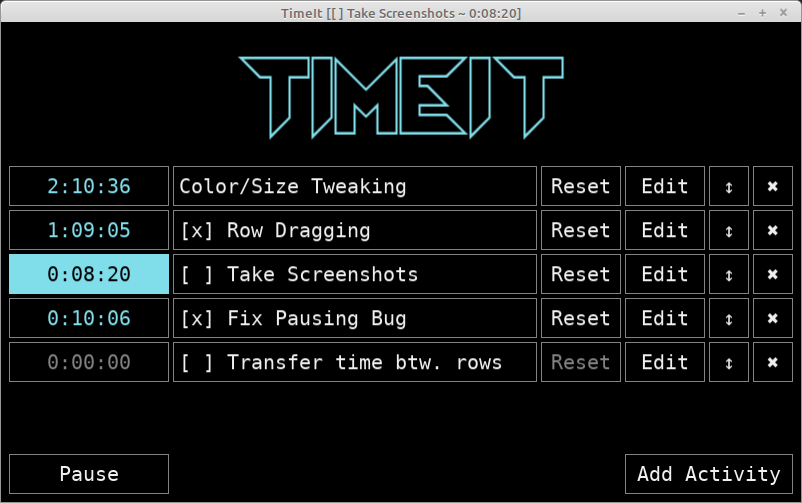
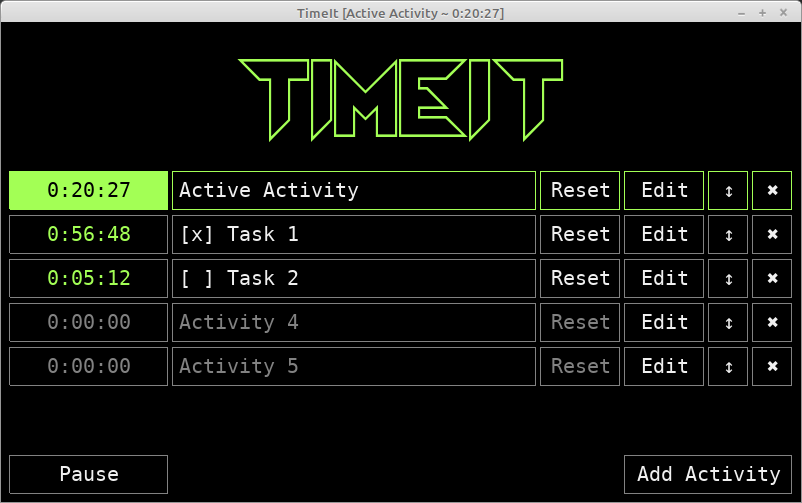
removed kivyMD dependency

diff --git a/kivy_timetracker.py b/kivy_timetracker.py
@@ -14,13 +14,13 @@ from kivy.uix.button import Button
 from kivy.uix.togglebutton import ToggleButton
 from kivy.properties import ColorProperty
 
-from kivymd.uix.behaviors import HoverBehavior  # TODO can we eliminate this dependency
-
 from kivy.clock import Clock
 from kivy.config import Config
 from kivy.core.window import Window
 from kivy.core.text import LabelBase
-from kivy.resources import resource_add_path, resource_find
+from kivy.resources import resource_add_path
+
+from hoverable import HoverBehavior
 
 import os
 import sys
@@ -84,6 +84,14 @@ BG_COLOR = tuple(x/255. for x in (0, 0, 0))
 DISABLED_FG_COLOR = tuple(x/255. for x in (130, 130, 130))
 ACCENT_COLOR = tuple(x/255. for x in (245, 245, 66))
 CANCEL_COLOR = (1, 0, 0)
+
+
+# 0=Red, 30=Orange, 60=Yellow, 90=Yellow-Green, 120=Green
+# 150=Sea Foam, 180=Cyan, 210=Light Blue, 240=Dark Blue,
+# 270=Purple, 300=Magenta, 330=Pink, 360=Red
+RAINBOW_HUE_OFFSET = 0  # color at 12am
+
+RAINBOW_PERIOD_HOURS = 12  # 12 hour cycle
 
 TITLE_FONT_SIZE = 64
 REGULAR_FONT_SIZE = 20
@@ -155,7 +163,7 @@ Builder.load_string(f"""
             
         Image:
             id: _title_img
-            source: 'logo_white.png'
+            source: 'logo.png'
             size_hint: (1, None)
             size: (self.texture_size[0], self.texture_size[1] * 1.25)
         
@@ -268,7 +276,7 @@ class MyButton(Button, HoverBehavior, LineBorderWidget):
         self.update_colors()
 
     def calc_line_color(self):
-        if self.disabled or not self.hovering:
+        if self.disabled or not self.hovered:
             return DISABLED_FG_COLOR
         else:
             return FG_COLOR
@@ -305,11 +313,11 @@ class MyToggleButton(ToggleButton, HoverBehavior, ColorUpdatable):
 
     def __init__(self, **kwargs):
         super().__init__(**kwargs)
-        self.background_normal = 'button_texture.png'
-        self.background_active = 'button_texture.png'
-        self.background_down = 'button_texture.png'
-        self.background_disabled_normal = 'button_texture.png'
-        self.background_disabled_down = 'button_texture.png'
+        self.background_normal = 'transparent.png'
+        self.background_active = 'transparent.png'
+        self.background_down = 'transparent.png'
+        self.background_disabled_normal = 'transparent.png'
+        self.background_disabled_down = 'transparent.png'
 
         self.update_colors()
 
@@ -334,7 +342,7 @@ class MyToggleButton(ToggleButton, HoverBehavior, ColorUpdatable):
             return FG_COLOR
 
     def calc_line_color(self):
-        if self.hovering and not self.disabled:
+        if self.hovered and not self.disabled:
             return FG_COLOR_DIM if self.state == 'down' else FG_COLOR
         else:
             return FG_COLOR if self.state == 'down' else DISABLED_FG_COLOR
@@ -438,7 +446,7 @@ class Boxes(FloatLayout):
 
             if self.dragging_edit_btn_row < 0:
                 row.edit_btn.text = EDIT_TEXT
-            elif row.edit_btn.hovering:
+            elif row.edit_btn.hovered:
                 if row_id == self.dragging_edit_btn_row:
                     row.edit_btn.text = EDIT_TEXT  # No xfer happening
                 else:
@@ -730,7 +738,7 @@ class Boxes(FloatLayout):
             if timer_btn.text in ('', ZERO_TIME) and \
                     i not in (self.active_row_id, self.active_row_id_before_pause[0]):
                 return DISABLED_FG_COLOR if for_text else base_line_color
-            elif reset_btn.hovering:
+            elif reset_btn.hovered:
                 return FG_COLOR
             else:
                 return SECONDARY_COLOR if for_text else base_line_color
@@ -750,12 +758,12 @@ class Boxes(FloatLayout):
                 (FG_COLOR_DIM if self.active_row_id_before_pause[0] == i else DISABLED_FG_COLOR)
             if self.dragging_edit_btn_row < 0:
                 if for_text:
-                    return FG_COLOR if edit_btn.hovering else SECONDARY_COLOR
+                    return FG_COLOR if edit_btn.hovered else SECONDARY_COLOR
                 else:
-                    return FG_COLOR if edit_btn.hovering else base_line_color
+                    return FG_COLOR if edit_btn.hovered else base_line_color
             elif i == self.dragging_edit_btn_row:
-                return FG_COLOR if edit_btn.hovering else ACCENT_COLOR
-            elif not edit_btn.hovering:
+                return FG_COLOR if edit_btn.hovered else ACCENT_COLOR
+            elif not edit_btn.hovered:
                 return SECONDARY_COLOR if for_text else base_line_color
             else:
                 return ACCENT_COLOR
@@ -766,11 +774,11 @@ class Boxes(FloatLayout):
 
         def get_basic_btn_color(btn, for_text, hover_color=None):
             if for_text:
-                return (hover_color or FG_COLOR) if btn.hovering else SECONDARY_COLOR
+                return (hover_color or FG_COLOR) if btn.hovered else SECONDARY_COLOR
             else:
                 base_line_color = FG_COLOR if self.active_row_id == i else \
                     (FG_COLOR_DIM if self.active_row_id_before_pause[0] == i else DISABLED_FG_COLOR)
-                return (hover_color or FG_COLOR) if btn.hovering else base_line_color
+                return (hover_color or FG_COLOR) if btn.hovered else base_line_color
 
         drag_btn = MyButton(size=(row_height, row_height), size_hint=(None, None))
         drag_btn.text = DRAG_SYMBOL_TEXT
@@ -811,12 +819,12 @@ class Boxes(FloatLayout):
 
         edit_field = self._make_text_input(PLUS_MINUS_MINUTES_TEXT)
         ok_btn = MyButton(text=OK_TEXT, font_size=f'{REGULAR_FONT_SIZE}sp')
-        ok_btn.calc_text_color = lambda: FG_COLOR if ok_btn.hovering else SECONDARY_COLOR
-        ok_btn.calc_line_color = lambda: FG_COLOR if ok_btn.hovering else DISABLED_FG_COLOR
+        ok_btn.calc_text_color = lambda: FG_COLOR if ok_btn.hovered else SECONDARY_COLOR
+        ok_btn.calc_line_color = lambda: FG_COLOR if ok_btn.hovered else DISABLED_FG_COLOR
 
         cancel_btn = MyButton(text=CANCEL_TEXT, font_size=f'{REGULAR_FONT_SIZE}sp')
-        cancel_btn.calc_text_color = lambda: CANCEL_COLOR if cancel_btn.hovering else SECONDARY_COLOR
-        cancel_btn.calc_line_color = lambda: CANCEL_COLOR if cancel_btn.hovering else DISABLED_FG_COLOR
+        cancel_btn.calc_text_color = lambda: CANCEL_COLOR if cancel_btn.hovered else SECONDARY_COLOR
+        cancel_btn.calc_line_color = lambda: CANCEL_COLOR if cancel_btn.hovered else DISABLED_FG_COLOR
 
         content = BoxLayout(orientation='vertical')
         content.spacing = 4
@@ -869,7 +877,7 @@ class Boxes(FloatLayout):
                 dest_row.set_time_ms(new_dest_time)
                 if new_dest_time == 0 and i == self.active_row_id:
                     self.stop_active_timer()
-
+                    
             except Exception:
                 traceback.print_exc()
             finally:
@@ -896,11 +904,11 @@ class Boxes(FloatLayout):
             if self.pause_btn.disabled:
                 return DISABLED_FG_COLOR
             elif self.pause_btn.state == 'down':
-                if self.pause_btn.hovering:
+                if self.pause_btn.hovered:
                     return BG_COLOR if for_text else FG_COLOR_DIM
                 else:
                     return BG_COLOR if for_text else FG_COLOR
-            elif self.pause_btn.hovering:
+            elif self.pause_btn.hovered:
                 return FG_COLOR
             else:
                 return SECONDARY_COLOR if for_text else DISABLED_FG_COLOR
@@ -932,8 +940,8 @@ class Boxes(FloatLayout):
         self.update_pause_btn(mode='pause', disabled=True)
 
     def _build_add_btn(self):
-        self.add_btn.calc_text_color = lambda: FG_COLOR if self.add_btn.hovering else SECONDARY_COLOR
-        self.add_btn.calc_line_color = lambda: FG_COLOR if self.add_btn.hovering else DISABLED_FG_COLOR
+        self.add_btn.calc_text_color = lambda: FG_COLOR if self.add_btn.hovered else SECONDARY_COLOR
+        self.add_btn.calc_line_color = lambda: FG_COLOR if self.add_btn.hovered else DISABLED_FG_COLOR
 
 
 class TimeTrackerApp(App):
@@ -965,11 +973,15 @@ def hsv_to_rgb(h, s, v):
 
 
 def get_color_for_time(t_ms=None):
-    if t_ms is None:
-        t_ms = int(time.time() * 1000)
-    ms_per_day = 8.64e+7
-    time_of_day = t_ms % ms_per_day
-    hsv = (360 * time_of_day / ms_per_day, 0.666, 1)
+    if RAINBOW_PERIOD_HOURS <= 0:
+        h = RAINBOW_HUE_OFFSET
+    else:
+        if t_ms is None:
+            t_ms = int(time.time() * 1000)
+        time_of_day = t_ms % (24 * 60 * 60 * 1000)
+        ms_per_period = RAINBOW_PERIOD_HOURS * 60 * 60 * 1000
+        h = 360 * (time_of_day % ms_per_period) / ms_per_period + RAINBOW_HUE_OFFSET
+    hsv = (h, 0.666, 1)
     rgb = hsv_to_rgb(*hsv)
     return rgb
 

diff --git a/hoverable.py b/hoverable.py
@@ -1,0 +1,58 @@
+"""Hoverable Behaviour (changing when the mouse is on the widget by O. Poyen.
+
+License: BSD
+
+"""
+__author__ = 'Olivier POYEN'
+
+# Source https://gist.github.com/opqopq/15c707dc4cffc2b6455f
+# Note: Author said on Jan 27, 2021: "OK to change to bsd", hence I've
+# changed the license above from LGPL to BSD. Link to message:
+# https://gist.github.com/opqopq/15c707dc4cffc2b6455f?permalink_comment_id=3610159#gistcomment-3610159
+
+
+from kivy.properties import BooleanProperty, ObjectProperty
+from kivy.core.window import Window
+
+class HoverBehavior(object):
+    """Hover behavior.
+    :Events:
+        `on_enter`
+            Fired when mouse enter the bbox of the widget.
+        `on_leave`
+            Fired when the mouse exit the widget
+    """
+
+    hovered = BooleanProperty(False)
+    border_point= ObjectProperty(None)
+    '''Contains the last relevant point received by the Hoverable. This can
+    be used in `on_enter` or `on_leave` in order to know where was dispatched the event.
+    '''
+
+    def __init__(self, **kwargs):
+        self.register_event_type('on_enter')
+        self.register_event_type('on_leave')
+        Window.bind(mouse_pos=self.on_mouse_pos)
+        super(HoverBehavior, self).__init__(**kwargs)
+
+    def on_mouse_pos(self, *args):
+        if not self.get_root_window():
+            return # do proceed if I'm not displayed <=> If have no parent
+        pos = args[1]
+        #Next line to_widget allow to compensate for relative layout
+        inside = self.collide_point(*self.to_widget(*pos))
+        if self.hovered == inside:
+            #We have already done what was needed
+            return
+        self.border_point = pos
+        self.hovered = inside
+        if inside:
+            self.dispatch('on_enter')
+        else:
+            self.dispatch('on_leave')
+
+    def on_enter(self):
+        pass
+
+    def on_leave(self):
+        pass
